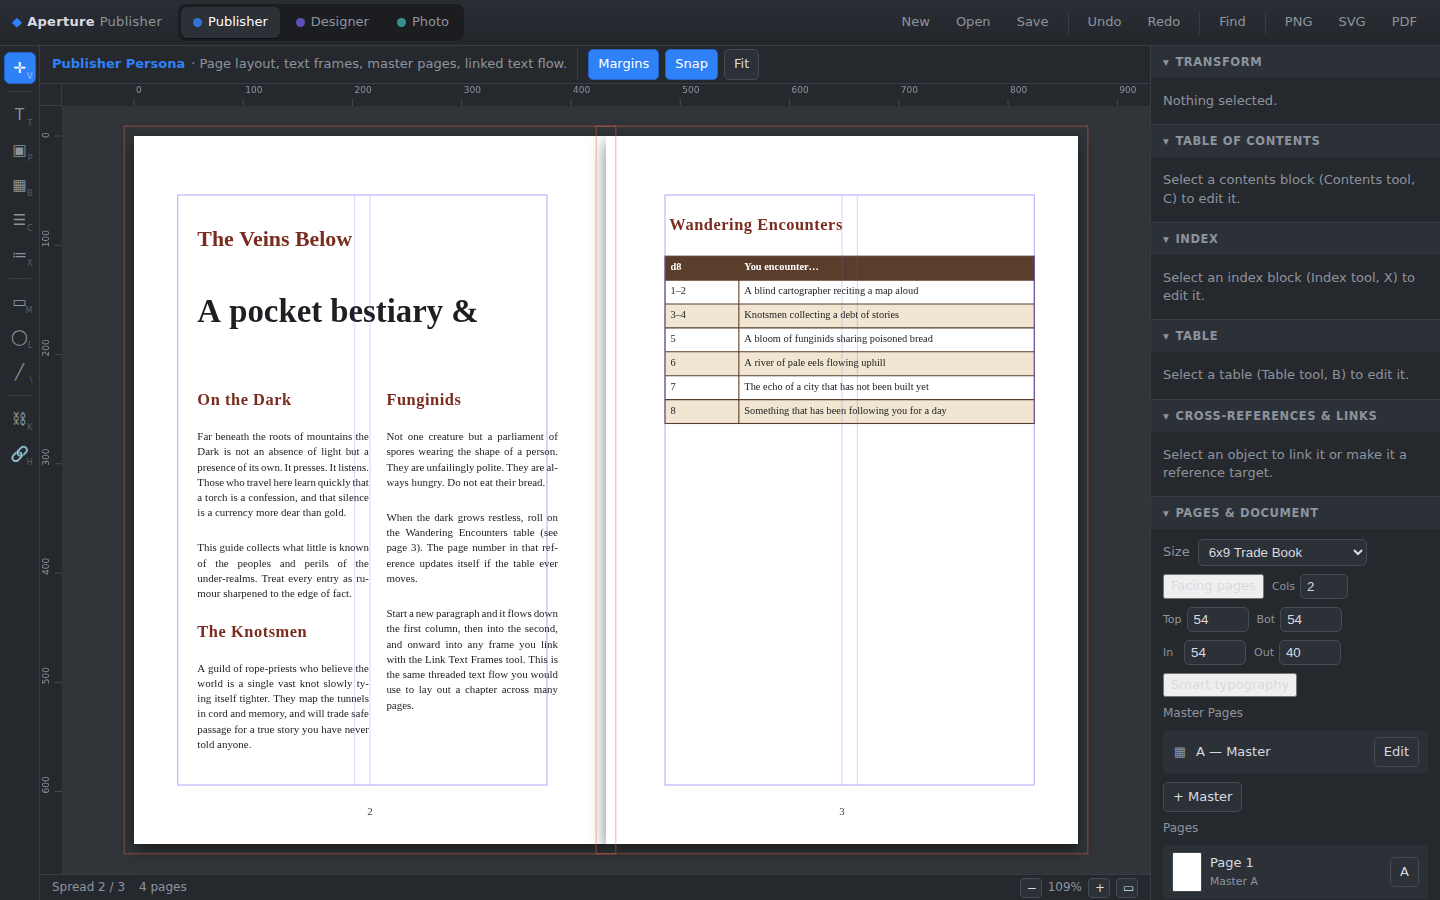
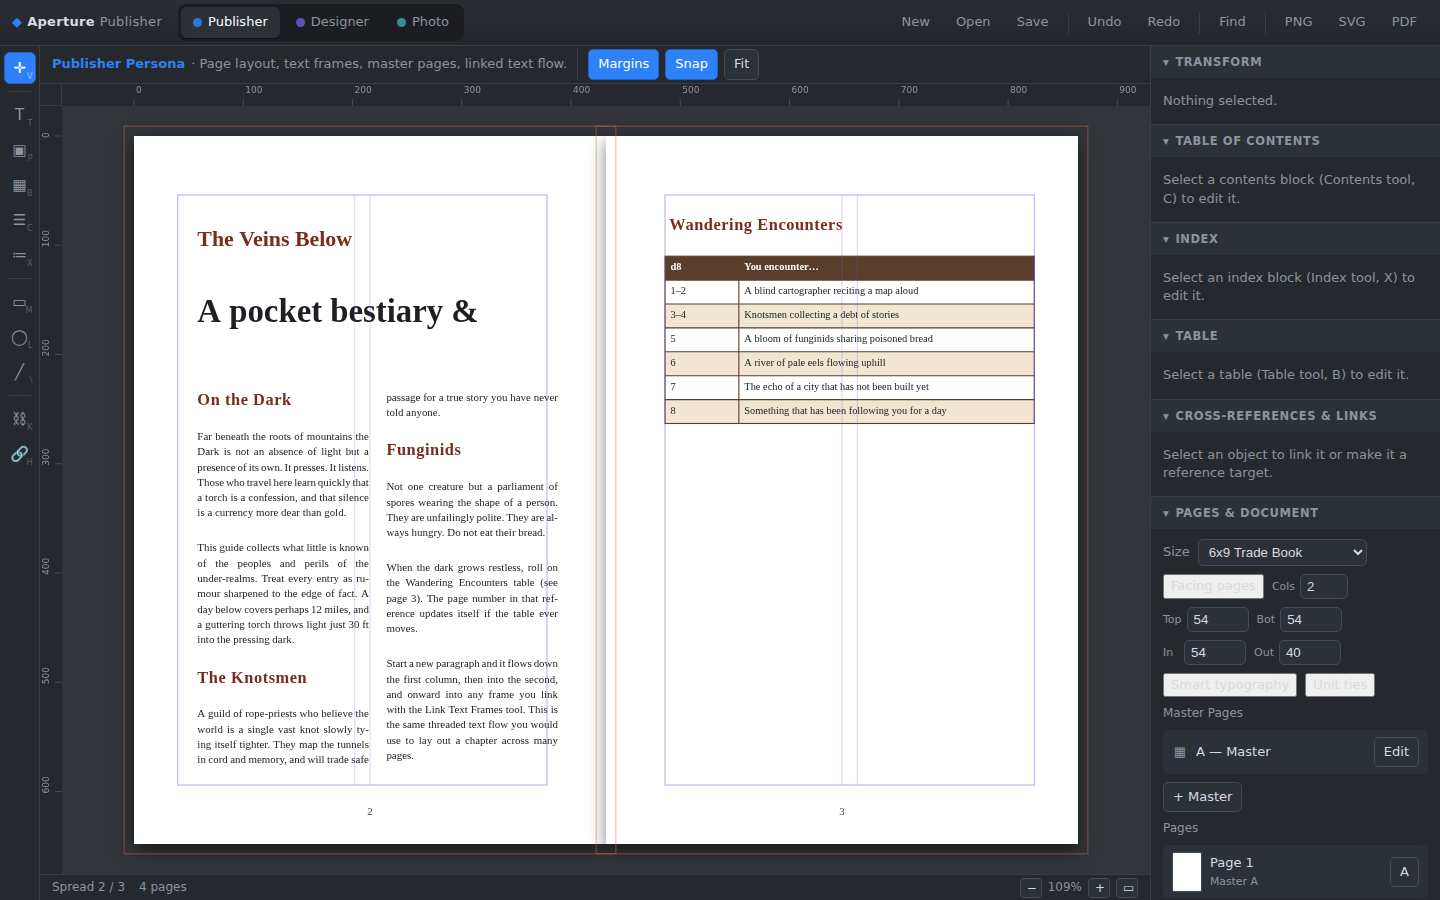
Add non-breaking spaces for units (unit ties)
Keep a value with its unit and a label with its number together so they never
split across a line — common in rulebooks (30 ft, DC 15, 5 gp, p. 42, 3 rounds).

- textlayout.applyNonBreaking(): render-time transform inserting U+00A0 between a
  number and a curated unit list, and between a label (DC/AC/CR/p./No./Fig...)
  and a following number. Source text is unchanged (find/replace still uses plain
  spaces).
- The tokenizer now splits on breakable whitespace only (space/tab), so U+00A0
  stays inside a word — one box with no internal breakpoint, while regular spaces
  still break and stretch for justification. Works with both Knuth-Plass and the
  greedy fallback.
- Curated unit list avoids false ties (e.g. "in" as preposition is excluded).
  Document-level toggle (Pages & Document › Unit ties), default on.

Verified in Chromium: correct ties, no false positives ("5 in the box" stays
breakable), "30 ft"/"12 miles" never split in a narrow column, no text loss,
toggle restores breakability, and all exports.

Claude-Session: https://claude.ai/code/session_01V9Hz9qwSWaNTftBnySXKLH

Changed region(s): [[0.125, 0.4356, 0.4062, 0.8711], [0.9062, 0.7467, 0.9688, 0.7778]]

diff --git a/publisher/src/textlayout.js b/publisher/src/textlayout.js
@@ -59,6 +59,15 @@ export function hyphenatePoints(word) {
   return hyphenateWord(word, 2, 3);
 }
 
+// Tie a value to its unit ("30 ft") and a label to its number ("DC 15", "p. 42")
+// with a non-breaking space, so the pair never splits across a line. The nbsp is
+// U+00A0 — it renders and measures as a normal space but is not a break candidate.
+const NB_UNITS = /(\d[\d,.\/]*)\x20(?=(?:ft|foot|feet|mi|mile|miles|yd|yard|yards|lb|lbs|gp|sp|cp|pp|ep|hp|xp|hr|hrs|hour|hours|min|minute|minutes|round|rounds|turn|turns|day|days|week|weeks|AC|DC|CR|HD)\.?\b)/gi;
+const NB_LABELS = /\b(pp?\.|No\.|Nos\.|Fig\.|Figs\.|Ch\.|Vol\.|Sec\.|DC|AC|CR|HD|HP|XP|Lvl?\.?)\x20(?=\d)/gi;
+export function applyNonBreaking(s) {
+  return s.replace(NB_UNITS, '$1\u00A0').replace(NB_LABELS, '$1\u00A0');
+}
+
 // Pull {index:Term} marks out of a line; they record an index entry but render
 // nothing. Returns the cleaned text plus the list of terms found.
 function extractIndexTerms(line) {
@@ -79,6 +88,7 @@ function resolveParagraph(rawLine, base, doc) {
     if (ps) style = ps;
   }
   if (doc.settings && doc.settings.smartTypography !== false) text = smartTypography(text);
+  if (doc.settings && doc.settings.nonBreakingUnits !== false) text = applyNonBreaking(text);
   return { text, style, level, indexTerms: terms };
 }
 
@@ -363,7 +373,8 @@ function greedyBreak(words, style, Lfun, hyphenate) {
 // including first-line indent). colW is the (uniform) column measure.
 function breakParagraph(para, colW, indent, hyphenate) {
   const style = para.style;
-  const words = para.text.length ? para.text.split(/\s+/).filter(Boolean) : [];
+  // split on breakable whitespace only — U+00A0 stays inside a word (a "tie")
+  const words = para.text.length ? para.text.split(/[\x20\t]+/).filter(Boolean) : [];
   const lineH = style.size * style.lineHeight;
   const common = { lineH, size: style.size, font: fontString(style), color: style.color, tracking: style.tracking || 0 };
   if (!words.length) return [{ spacer: true, ...common }];

diff --git a/publisher/src/main.js b/publisher/src/main.js
@@ -196,7 +196,7 @@ const SAMPLE_BODY = `## On the Dark
 
 Far beneath the roots of mountains the Dark{index:Dark, the} is not an absence of light but a presence of its own. It presses. It listens. Those who travel here learn quickly that a torch is a confession, and that silence is a currency more dear than gold.
 
-This guide collects what little is known of the peoples and perils of the under-realms. Treat every entry as rumour sharpened to the edge of fact.
+This guide collects what little is known of the peoples and perils of the under-realms. Treat every entry as rumour sharpened to the edge of fact. A day below covers perhaps 12 miles, and a guttering torch throws light just 30 ft into the pressing dark.
 
 ### The Knotsmen
 

diff --git a/publisher/src/panels.js b/publisher/src/panels.js
@@ -264,6 +264,7 @@ function buildPages() {
   ]));
   kids.push(el('div', { class: 'row' }, [
     toggleBtn('Smart typography', s.smartTypography !== false, () => { begin('smart'); s.smartTypography = !(s.smartTypography !== false); commit('smart'); }),
+    toggleBtn('Unit ties', s.nonBreakingUnits !== false, () => { begin('nbsp'); s.nonBreakingUnits = !(s.nonBreakingUnits !== false); commit('nbsp'); }),
   ]));
 
   // master list

diff --git a/publisher/src/model.js b/publisher/src/model.js
@@ -41,6 +41,7 @@ export function newDocument(opts = {}) {
       gutter: 14,
       units: 'pt',
       smartTypography: true,
+      nonBreakingUnits: true,
     },
     layers: [
       { id: layerId, name: 'Layer 1', visible: true, locked: false },

diff --git a/publisher/README.md b/publisher/README.md
@@ -91,8 +91,10 @@ Switch with the buttons or keys **1 / 2 / 3**.
   pattern set — dictionary-quality break points) feeds the breaker as penalised
   optional breaks. Ragged text falls back to a fast greedy breaker.
   **Smart typography** turns straight quotes curly and `--`/`---`/`...` into en/em
-  dashes and an ellipsis, and paragraphs support a **first-line indent** — all
-  per-frame toggleable and applied in every export.
+  dashes and an ellipsis; **unit ties** keep a value with its unit (`30 ft`,
+  `DC 15`, `5 gp`, `p. 42`) together with a non-breaking space so they never split
+  across a line; and paragraphs support a **first-line indent** — all toggleable
+  and applied in every export.
 
 ![Hyphenated, justified two-column body text](docs/typesetting.png)
 
